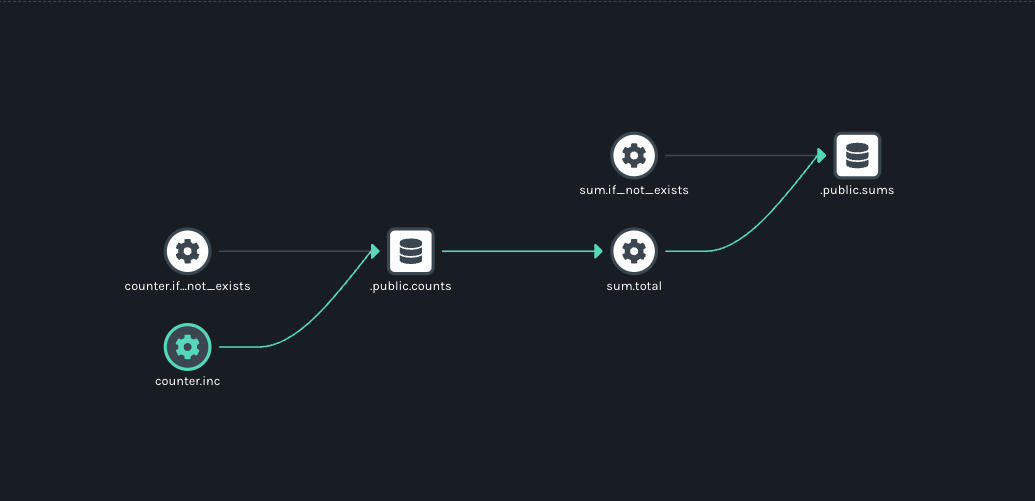
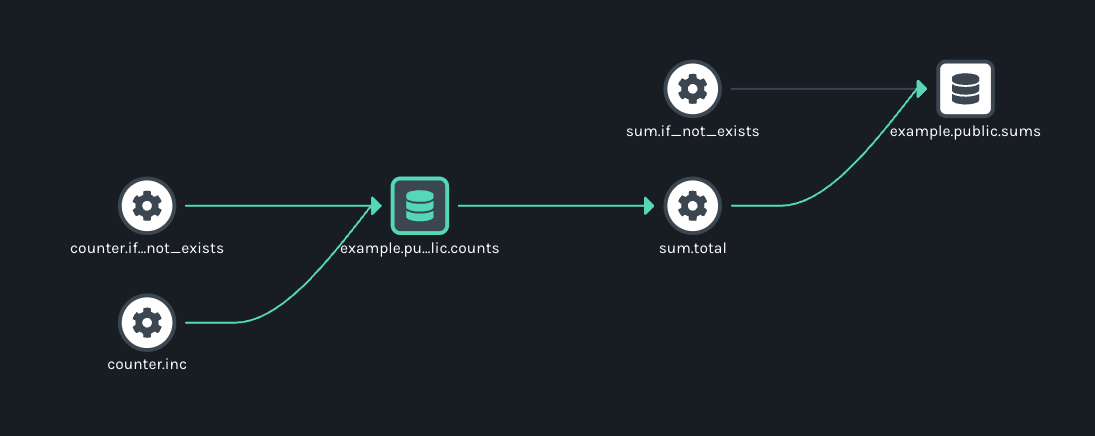
Updates airflow-quickstart and images to latest version of marquez and the ol provider.

Changed region(s): [[0.0618, 0.1193, 0.9585, 0.656], [0.0928, 0.6261, 0.2783, 0.8647], [0.742, 0.3876, 0.7729, 0.4472]]

diff --git a/docs/guides/airflow-quickstart.md b/docs/guides/airflow-quickstart.md
@@ -13,13 +13,12 @@ In this example, we'll walk you through how to enable Airflow DAGs to send linea
 
 ### Table of Contents
 
-1. [Step 1: Install the OpenLineage Airflow Provider](#install-the-openlineage-airflow-provider)
-2. [Step 2: Configure Your Astro Project](#configure-your-astro-project)
-3. [Step 3: Add Marquez Services Using Docker Compose](#add-marquez-services-using-docker-compose)
-4. [Step 4: Start Airflow with Marquez](#start-airflow-with-marquez)
-5. [Step 5: Write Airflow DAGs](#write-airflow-dags)
-6. [Step 6: View Collected Metadata](#view-collected-metadata)
-7. [Step 7: Troubleshoot a Failing DAG with Marquez](#troubleshoot-a-failing-dag-with-marquez)
+1. [Step 1: Configure Your Astro Project](#configure-your-astro-project)
+2. [Step 2: Add Marquez Services Using Docker Compose](#add-marquez-services-using-docker-compose)
+3. [Step 3: Start Airflow with Marquez](#start-airflow-with-marquez)
+4. [Step 4: Write Airflow DAGs](#write-airflow-dags)
+5. [Step 5: View Collected Metadata](#view-collected-metadata)
+6. [Step 6: Troubleshoot a Failing DAG with Marquez](#troubleshoot-a-failing-dag-with-marquez)
 
 ## Prerequisites
 
@@ -30,20 +29,6 @@ Before you begin, make sure you have installed:
 * [curl](https://curl.se/)
 
 > **Note:** We recommend that you have allocated at least **2 CPUs** and **8 GB** of memory to Docker.
-
-## Install the OpenLineage Airflow Provider
-
-Use the following commands to install the official OpenLineage Provider and its requirements:
-
-```bash
-pip install apache-airflow-providers-openlineage && 
-pip install apache-airflow-providers-common-sql && 
-pip install attrs && 
-pip install openlineage-integration-common && 
-pip install openlineage-python
-```
-
-For more details about the Provider and its minimum requirements, see the Airflow [docs](https://airflow.apache.org/docs/apache-airflow-providers-openlineage/stable/index.html). 
 
 ## Configure Your Astro Project
 
@@ -77,9 +62,18 @@ Use the Astro CLI to create and run an Airflow project locally that will integra
     .gitignore            include
     ```
 
-3. To configure Astro to send lineage metadata to Marquez, add the following environment variables below to your Astro project's `.env` file:
+3. Add the OpenLineage Airflow Provider and the Common SQL Provider to the requirements.txt file:
 
-    ```bash
+    ```txt
+    apache-airflow-providers-common-sql==1.7.2
+    apache-airflow-providers-openlineage==1.1.0
+    ```
+
+    For details about the Provider and its minimum requirements, see the Airflow [docs](https://airflow.apache.org/docs/apache-airflow-providers-openlineage/stable/index.html).
+
+4. To configure Astro to send lineage metadata to Marquez, add the following environment variables below to your Astro project's `.env` file:
+
+    ```env
     OPENLINEAGE_URL=http://host.docker.internal:5000
     OPENLINEAGE_NAMESPACE=example
     AIRFLOW_CONN_EXAMPLE_DB=postgres://example:example@host.docker.internal:7654/example
@@ -87,10 +81,18 @@ Use the Astro CLI to create and run an Airflow project locally that will integra
 
     These variables allow Airflow to connect with the OpenLineage API and send events to Marquez.
 
-3. It is a good idea to have Airflow use a different port for Postgres than the default 5432, so run the following command to use port 5678 instead:
+5. It is a good idea to have Airflow use a different port for Postgres than the default 5432, so run the following command to use port 5678 instead:
 
     ```sh
     astro config set postgres.port 5678
+    ```
+
+6. Check the Dockerfile to verify that your installed version of the Astro Runtime is 9.0.0+ (to ensure that you will be using Airflow 2.7.0+).
+
+    For example:
+
+    ```txt
+    FROM quay.io/astronomer/astro-runtime:9.1.0
     ```
 
 ## Add Marquez and Database Services Using Docker Compose
@@ -114,7 +116,7 @@ services:
       - api
 
   db:
-    image: postgres:12.1
+    image: postgres:14.9
     container_name: marquez-db
     ports:
       - "6543:6543"
@@ -124,7 +126,7 @@ services:
       - POSTGRES_DB=marquez
 
   example-db:
-    image: postgres:12.1
+    image: postgres:14.9
     container_name: example-db
     ports:
       - "7654:5432"
@@ -243,7 +245,7 @@ with DAG(
         postgres_conn_id='example_db',
         sql='''
         CREATE TABLE IF NOT EXISTS sums (
-        value INTEGER
+            value INTEGER
         );'''
     )
 
@@ -273,7 +275,7 @@ To view DAG metadata collected by Marquez from Airflow, browse to the Marquez UI
   <img src={require("./docs/current-search-count.png").default} />
 </p>
 
-If you take a quick look at the lineage graph for `counter.inc`, you should see `.public.counts` as an output dataset and `sum.total` as a downstream job!
+If you take a quick look at the lineage graph for `counter.inc`, you should see `example.public.counts` as an output dataset and `sum.total` as a downstream job!
 
 ![](./docs/astro-current-lineage-view-job.png)
 
@@ -294,15 +296,7 @@ query1 = PostgresOperator(
 -   CREATE TABLE IF NOT EXISTS counts (
 -     value INTEGER
 -   );''',
-+    DO $$
-+    BEGIN
-+      IF EXISTS(SELECT *
-+        FROM information_schema.columns
-+        WHERE table_name='counts' and column_name='value')
-+      THEN
-+        ALTER TABLE "counts" RENAME COLUMN "value" TO "value_1_to_10";
-+      END IF;
-+    END $$;
++   ALTER TABLE "counts" RENAME COLUMN "value" TO "value_1_to_10";
 +   '''
 )
 ```
@@ -314,11 +308,8 @@ query2 = PostgresOperator(
     sql='''
 -    INSERT INTO counts (value)
 +    INSERT INTO counts (value_1_to_10)
-         VALUES (%(value)s)
+         VALUES (1)
     ''',
-    parameters={
-      'value': random.randint(1, 10)
-    }
 )
 ```
 
